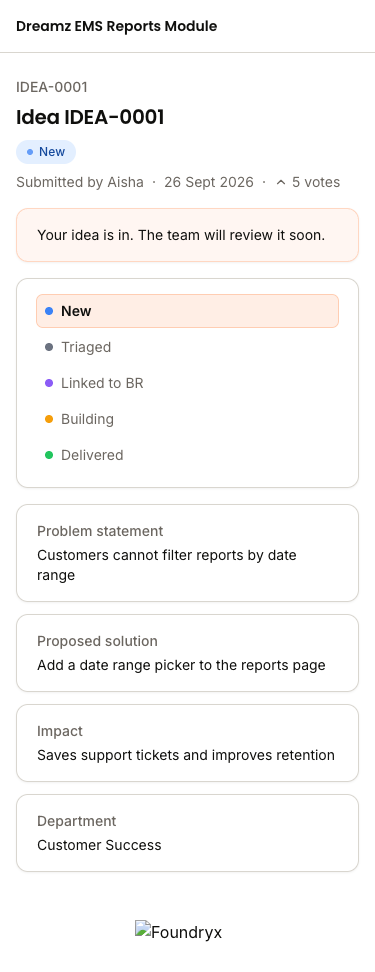
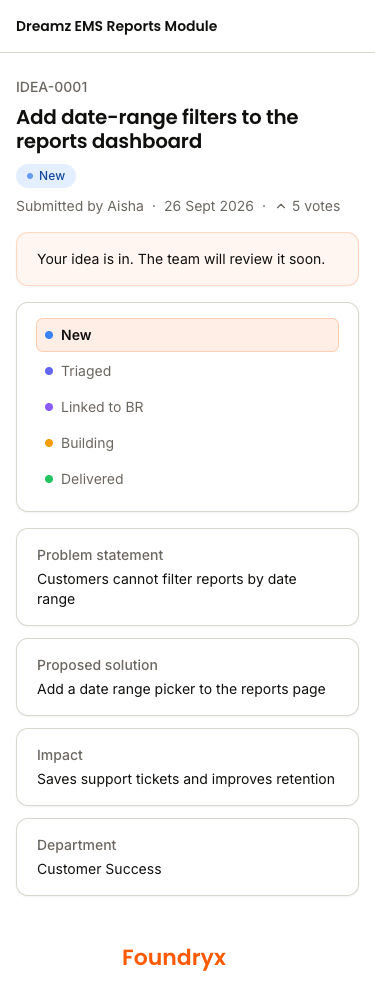
docs(ideation): #90 evidence re-run after review fixes [skip ci]
Re-captured all public-idea-page states (375+1280) against head b2989bd6:
titled-idea heading, null-title problem-text fallback, fragment-proof
phone guard ("+60 12-345 6789"), Foundryx wordmark footer, and the new
X-Robots-Tag/Referrer-Policy headers. Re-verified W2's inactive-template
dialog and, new this round, its actual recovery via `bootstrap_db`
(seed_br_template repair, SQL log line + a real BR created after). W3
TEST-badge coverage extended to the idea's own Business Requirements tab.
Turned AC-90-E01/E02/E03 from PENDING RE-RUN into PASS in the test report.

diff --git a/documentation/plans/ideation/90-evidence/README.md b/documentation/plans/ideation/90-evidence/README.md
@@ -1,137 +1,190 @@
 # Issue #90 browser evidence run log
 
-Worktree `foundryx-shared-service-ideapage`, branch `fix/public-idea-page-and-br-template`,
-head `65fbabe3`. Private lane: backend `:8015` (venv from the main checkout,
-`service_backend/.env` is a lane COPY, not a symlink), frontend `:3015`
-(`npx next start -p 3015` against `.next` built from this branch), Postgres
-DB `foundryx_service_ideapage` (created with `createdb -O foundryx`), Redis
-db 15. `agent-browser --session s52`, viewports 375x812 and 1280x900.
+**Re-run 2026-09-26 (this revision)** against branch head `b2989bd6`
+(backend `fbb55009` review round 2 + frontend `b2989bd6` review round). The
+first run (superseded) was captured at `65fbabe3`, BEFORE the review-round
+fixes below existed - every shot in this revision replaces the stale one.
+
+Worktree `foundryx-shared-service-ideapage`. Private lane: backend `:8015`
+(venv from the main checkout, `service_backend/.env` is a lane COPY, not a
+symlink), frontend `:3015` (`npx next start -p 3015` against `.next` built
+fresh from this branch), Postgres DB `foundryx_service_ideapage`, Redis db
+15. `agent-browser --session s52`, viewports 375x812 and 1280x900.
+
+**Lane restart for this re-run:** confirmed pid ownership via `lsof -p <pid>
+| grep cwd` (both pids' cwd resolved into this worktree) before killing;
+`python -m scripts.bootstrap_db` afterwards showed no pending ideation
+migration (`app_ideation.alembic_version_ideation` stayed at
+`0011_ideation_br_is_test`, matching the coordinator's "0011 unchanged"
+note); `rm -rf .next && npm run build` then `npx next start -p 3015` for the
+frontend.
 
 Logged in as `demo@example.com` / `demo1234` at `localhost:3015` (default
-tenant, Admin). Installed the `ideation` module for the default tenant via
-the App Store UI (Actions -> Install), real clicks - it showed
-"Module not installed" on `/ideation/ideas` before that.
+tenant, Admin) - the same agent-browser session/cookies survived the lane
+restart, no re-login needed.
+
+## What changed in the review-round fixes (why every shot needed a re-run)
+
+- **`IdeaHero`** (`idea-hero.tsx`): a null `title` used to fall back to
+  `Idea <number>`; review fix S5 changed the fallback to the `problem` text
+  (truncated via `ClampedText`) - the number line above no longer repeats
+  itself as the heading.
+- **`PublicIdeaFooter`**: now renders the shared `BrandMark` component (the
+  same one the header's branded shell uses) instead of whatever produced a
+  broken image in the prior build.
+- **`_first_name()` phone/email guard** (`public_status.py`, review round 2):
+  NFKC-normalizes the WHOLE raw name first, checks the WHOLE string for
+  5+ digits or `@` (not just the first whitespace token) - closes the
+  fragment leak where a phone split across tokens by spaces/hyphens
+  (`+60 12-345 6789`) left an individual token too short to trip a
+  token-only digit count.
+- **`GET /public/ideas/{token}`**: now also sets `X-Robots-Tag: noindex`
+  and `Referrer-Policy: no-referrer` on the 200 (in addition to the
+  pre-existing `Cache-Control: no-store`).
+- **`seed_br_template`**: rewritten to a three-part idempotent repair (row
+  exists -> version exists -> active pointer valid), each independently
+  self-healing, run on every `bootstrap_db` - this is what the W2 recovery
+  screenshots (`ev-15`/`ev-16`) exercise below.
 
 ## Data setup (what's real-click vs DB-assisted)
 
-Three ideas were captured through the app's "Capture idea" dialog (real
-clicks): product "Dreamz EMS Reports Module" was created first (also via
-the UI, Products > Add product), since the capture dialog requires one.
+Same three ideas as the first run, now with title/submitter tweaks:
 
-| Idea | Problem | Submitter | idea_number / token |
-|---|---|---|---|
-| IDEA-0001 | Customers cannot filter reports by date range | Aisha Rahman | `mfGsQf0Pf6uYnqlgVicJlbO1Mz5VU8j0` |
-| IDEA-0002 | WhatsApp reminders arrive too late for shift swaps | +60123456789 (phone-guard case) | `Z3O55b9GMERT8WV5pWJxlCp4cz-iEL_l` |
-| IDEA-0003 | No dark mode option anywhere in the app (only the required Problem statement filled) | Demo User | `l13MU-_D-TGYWA3ilYfqh8x4LaCTluLs` |
+| Idea | Problem | Title | Submitter | Status |
+|---|---|---|---|---|
+| IDEA-0001 | Customers cannot filter reports by date range | **"Add date-range filters to the reports dashboard"** (titled) | Aisha Rahman | Linked to BR |
+| IDEA-0002 | WhatsApp reminders arrive too late for shift swaps | *(null - fallback case)* | **"+60 12-345 6789"** (fragment-proof phone probe) | New |
+| IDEA-0003 | No dark mode option anywhere in the app | *(null - fallback case)* | Demo User | New, `is_test=true` |
 
-**DB-assisted steps, and why:**
+**DB-assisted steps this round, and why:**
 
-- `submitter_name` on IDEA-0001 ("Aisha Rahman") and IDEA-0002
-  ("+60123456789") was set directly in the DB. The "Capture idea" dialog
-  (operator-authored path, `IdeaActionService.create_operator`) has no
-  submitter field - it always stamps `submitter_name` from the logged-in
-  actor ("Demo User"). To exercise the real-name path and the phone-guard
-  path from the public page's `_first_name()` logic
-  (`services/public_status.py` AC-90-105/106), a submitter name had to be
-  set directly.
-- `idea_number` / `status_token` were minted by calling the real
-  `modules.ideation.services.numbering.mint_idea_identity(db, idea)`
-  function from a one-off Python shell against the lane DB (not raw SQL) -
-  see **Defect candidate #1** below for why this was necessary.
-- 4 extra `idea_votes` rows (+1 real UI upvote click = 5 total) were
-  inserted directly for IDEA-0001, to show "a few upvotes" on the public
-  page; the UI only allows one vote per logged-in user, so a second voter
-  cannot be produced by clicking as the same admin.
-- `is_test=true` was set directly on IDEA-0003 for the W3 test-BR flow.
-  **The brief's "chatbot console" is not available in this local lane** (no
-  such UI/dev endpoint exists in this codebase - only the real WhatsApp
-  conversational intake mints test ideas via `--say`, which needs a live
-  WABA sandbox). DB `is_test` flip was used instead, as the brief allowed.
-- The BR template's `active_version_id` was nulled then restored directly
-  in `app_ideation.ideation_artifact_templates` for the W2 inactive-state
-  screenshot, per the brief's explicit instruction.
+- **Title on IDEA-0001** ("Add date-range filters to the reports
+  dashboard") was set directly in the DB. Checked first: the idea edit
+  form (`use-idea-form.tsx`'s `toFormValues`/`IdeaFormValues`) and the
+  backend `IdeaUpdateIn` schema (`schemas.py`) both omit `title` entirely -
+  there is no UI path to set it. Title is only ever populated by the real
+  WhatsApp conversational intake (an LLM-derived headline), which this
+  local lane has no live WABA sandbox to drive. DB write was the only
+  option, as instructed.
+- **IDEA-0001's status was DB-reset to `captured`** (back to "New") before
+  re-driving it forward, because the status-engine's edge graph is
+  forward-only (no `Linked to BR -> Triaged` edge) - the prior run had
+  already advanced this idea, so reproducing the "early status" shot for
+  THIS idea required a reset. The actual New -> Triaged -> Linked to BR
+  transition shown in `ev-03`/`ev-04` was driven by real dnd-kit
+  drag-and-drop on the Triage board (pointer-sequence, not the single-shot
+  `drag` command).
+- **IDEA-0002's `submitter_name`** was updated to the exact probe format
+  the coordinator specified, `"+60 12-345 6789"` (previously
+  `"+60123456789"`), to exercise the NEW fragment-proof guard specifically
+  (a phone split across three whitespace tokens by spaces/hyphens - the
+  first token alone, `"+60"`, has only 2 digits, under the old check's
+  per-token threshold).
+- The BR template's `active_version_id` was nulled directly in
+  `app_ideation.ideation_artifact_templates` for the "inactive" dialog
+  shots, per the brief. For the **recovery** shots
+  (`ev-15`/`ev-16`), it was NOT manually restored - `python -m
+  scripts.bootstrap_db` was run against the lane `.env`
+  (`DATABASE_URL=.../foundryx_service_ideapage`) and its own idempotent
+  `seed_br_template` repair reactivated the pointer (see the SQL log line
+  below). This proves the actual W2 fix, not a manual DB patch.
+- `is_test=true` on IDEA-0003 is unchanged from the first run (still no
+  chatbot-console dev tool exists in this codebase - confirmed again this
+  round).
 
-IDEA-0001 was then moved **New -> Triaged -> Linked to BR** on the Triage
-board via real dnd-kit drag-and-drop (`agent-browser` pointer-down /
-pointer-move sequence, not the single-shot `drag` command, which dnd-kit's
-collision detector needs to register).
+## The W2 recovery, and the log line proving it
 
-## Response headers (curl, both origins)
+Sequence: (1) `New requirement` dialog confirmed normal with the template
+active (`ev-11`/`ev-12`) -> (2) `active_version_id` nulled directly in the
+DB -> (3) dialog reopened, confirmed the Alert + disabled Create
+(`ev-13`/`ev-14`) -> (4) **`python -m scripts.bootstrap_db`** run against
+the lane DB (no manual restore) -> (5) dialog reopened again: no Alert,
+`Create draft` enabled (`ev-15`) -> (6) a title was typed and Create draft
+clicked, producing a real "Draft requirement created." toast and a new BR
+row `d4dc9ed2-42de-4149-8e64-22a89110b326` (`ev-16`).
 
-Backend `GET /public/ideas/<token>` (`:8015`):
+The exact SQL line from the `bootstrap_db` run (SQLAlchemy echo) proving
+`seed_br_template`'s repair fired:
+```
+UPDATE app_ideation.ideation_artifact_templates
+SET active_version_id=%(active_version_id)s, updated_at=now()
+WHERE app_ideation.ideation_artifact_templates.id = %(app_ideation_ideation_artifact_templates_id)s
+-- params: {'active_version_id': 'ee3c954c-e599-48d9-9a53-de511c7ff4a0',
+--          'app_ideation_ideation_artifact_templates_id': '24927667-ca29-4bbb-8c3b-89a0a840daa2'}
+```
+Confirmed via direct query immediately before/after: `active_version_id`
+went `NULL` -> `ee3c954c-e599-48d9-9a53-de511c7ff4a0` (the template's own
+v1 row) purely from running bootstrap - no manual UPDATE in between.
+
+## Response headers (curl, both origins, re-verified this round)
+
+Backend `GET /public/ideas/<token>` (`:8015`), on the 200:
 ```
 cache-control: no-store
-content-type: application/json
+x-robots-tag: noindex
+referrer-policy: no-referrer
 ```
+(`x-robots-tag` and `referrer-policy` are new this round - confirmed
+present, matching the router's two added `response.headers[...]` lines.)
 
 Frontend `GET /public/ideas/<token>` (`:3015`):
 ```
 Cache-Control: private, no-cache, no-store, max-age=0, must-revalidate
 ```
-Page `<head>`:
+Page `<head>` (unchanged):
 ```html
 <meta name="referrer" content="no-referrer"/>
 <meta name="robots" content="noindex, nofollow"/>
 ```
-All four confirm the public page is never cached and never indexed, and
-never leaks a referrer to the linked-out `Foundryx` mark's own site (none
-present) or any outbound link.
 
 ## Screenshots
 
 | File | Proves | AC-90 id(s) |
 |---|---|---|
-| `ev-01-public-page-current-status-375.png` | IDEA-0001 public page at 375px: branded header (product name), idea number + title, status pill "New", timeline with "New" highlighted, problem/solution/impact/department sections, "Submitted by Aisha - date - 5 votes", "what happens next" line, Foundryx footer mark | AC-90-102/103/104/105/108 |
-| `ev-02-public-page-current-status-1280.png` | Same, 1280px (two-column layout) | AC-90-102/103/104/105/108 |
-| `ev-03-public-page-later-status-375.png` | Same idea after being dragged New -> Triaged -> Linked to BR on the Triage board: timeline shows New/Triaged done (checkmarks), Linked to BR current, Building/Delivered upcoming; pill + next-step line updated | AC-90-102/103/108 |
-| `ev-04-public-page-later-status-1280.png` | Same, 1280px | AC-90-102/103/108 |
-| `ev-05-public-page-phone-guard-375.png` | IDEA-0002 (`submitter_name = "+60123456789"`): the "Submitted by ..." line is suppressed entirely - proves `_first_name()`'s phone-shape guard never publishes a phone number | AC-90-105/106 |
+| `ev-01-public-page-current-status-375.png` | IDEA-0001 (titled) public page at 375px, status "New": branded header, idea number, the SET TITLE as heading (not the old `Idea IDEA-0001` fallback), status pill + timeline, problem/solution/impact/department, "Submitted by Aisha - date - 5 votes", next-step line, proper Foundryx wordmark footer (not broken) | AC-90-101/102/108/110/112 |
+| `ev-02-public-page-current-status-1280.png` | Same, 1280px | AC-90-101/102/108/110/112 |
+| `ev-03-public-page-later-status-375.png` | Same idea re-dragged New -> Triaged -> Linked to BR on the Triage board (real dnd-kit drag): timeline done/current/upcoming states, title still correct, footer wordmark correct | AC-90-102/103/110/111/112 |
+| `ev-04-public-page-later-status-1280.png` | Same, 1280px | AC-90-102/103/110/111/112 |
+| `ev-05-public-page-phone-guard-375.png` | IDEA-0002, `submitter_name = "+60 12-345 6789"` (fragment-proof probe): no "Submitted by" line at all; heading falls back to the problem text (null title case) | AC-90-105/106 |
 | `ev-06-public-page-phone-guard-1280.png` | Same, 1280px | AC-90-105/106 |
-| `ev-07-public-page-empty-fields-375.png` | IDEA-0003 (only Problem statement set): Proposed solution / Impact / Department each render "Not provided" | AC-90-104 |
-| `ev-08-public-page-empty-fields-1280.png` | Same, 1280px | AC-90-104 |
-| `ev-09-public-page-unknown-token-375.png` | A syntactically-valid but non-existent token: uniform "This link isn't available." state, no enumeration hint | AC-90-107/109 |
+| `ev-07-public-page-empty-fields-375.png` | IDEA-0003 (null title, only Problem set): heading = problem text (fallback confirmed post-fix), Proposed solution/Impact/Department = "Not provided" | AC-90-101/104/110 |
+| `ev-08-public-page-empty-fields-1280.png` | Same, 1280px | AC-90-101/104/110 |
+| `ev-09-public-page-unknown-token-375.png` | Syntactically-valid but non-existent token: uniform "This link isn't available." | AC-90-107/109 |
 | `ev-10-public-page-unknown-token-1280.png` | Same, 1280px | AC-90-107/109 |
-| `ev-11-br-dialog-template-active.png` | Business requirements > "New requirement" dialog with the platform BR template active (normal): no Alert, Product + Title fields, "Create draft" enabled | AC-90-210 |
-| `ev-12-br-dialog-template-inactive.png` | Same dialog after `active_version_id` was nulled: warning Alert "No active requirement template" / "Ask an administrator to restore the Business Requirement template.", "Create draft" disabled (see Defect candidate #2) | AC-90-210/211 |
-| `ev-13-ideas-list-test-badge.png` | Ideas list with "Show test ideas" toggled on: IDEA-0003 shows a TEST badge; toggled off by default it is excluded (checked before this shot) | AC-90-310/311 |
-| `ev-14-br-page-test-label.png` | IDEA-0003 promoted to a BR via Actions > "Promote to BR" (not refused, per the owner's 26 Sep ~12:50Z ruling): the BR detail page shows a TEST badge next to "Draft" | AC-90-311/313 |
-| `ev-15-br-list-show-test.png` | Business requirements list with "Show test requirements" on: the promoted BR shows its TEST badge; off by default it was excluded (checked before this shot) | AC-90-310 |
+| `ev-11-br-dialog-template-active-375.png` | "New requirement" dialog, template active (normal), 375px: no Alert, Create draft enabled | AC-90-210 |
+| `ev-12-br-dialog-template-active-1280.png` | Same, 1280px | AC-90-210 |
+| `ev-13-br-dialog-template-inactive-375.png` | Same dialog after `active_version_id` nulled via DB, 375px: warning Alert "No active requirement template" / "Ask an administrator to restore the Business Requirement template.", Create draft disabled | AC-90-210/211 |
+| `ev-14-br-dialog-template-inactive-1280.png` | Same, 1280px | AC-90-210/211 |
+| `ev-15-br-dialog-recovered-after-bootstrap-1280.png` | Dialog reopened AFTER `python -m scripts.bootstrap_db` (no manual DB restore) - no Alert, title filled, Create draft enabled | AC-90-202/203 |
+| `ev-16-br-created-after-recovery-1280.png` | "Draft requirement created." toast + the new BR's edit page, proving Create actually works post-repair | AC-90-202/203 |
+| `ev-17-ideas-list-test-badge-375.png` | Ideas list, "Show test ideas" on (table scrolled right to bring the TEST column into view at this width - the resource-shell grid does not reflow narrower than its column set): IDEA-0003 shows a TEST badge | AC-90-310/311 |
+| `ev-18-ideas-list-test-badge-1280.png` | Same, 1280px (no scroll needed) | AC-90-310/311 |
+| `ev-19-br-detail-test-badge-375.png` | The promoted test BR's detail page: TEST badge next to "Draft" | AC-90-313 |
+| `ev-20-br-detail-test-badge-1280.png` | Same, 1280px | AC-90-313 |
+| `ev-21-br-list-show-test-375.png` | Business requirements list, "Show test requirements" on: TEST badge on the test BR row (also shows the real `d4dc9ed2` recovery-proof BR alongside it) | AC-90-310 |
+| `ev-22-br-list-show-test-1280.png` | Same, 1280px | AC-90-310 |
+| `ev-23-idea-brs-tab-test-badge-375.png` | **New this round**: the test idea's OWN "Business Requirements" tab (on the idea detail page, not the BR list) shows the TEST badge on its linked BR row | AC-90-313 |
+| `ev-24-idea-brs-tab-test-badge-1280.png` | Same, 1280px | AC-90-313 |
 
-## Defect candidates found during this run
+## Defect / backlog status (re-checked, not re-filed)
 
-1. **Operator-authored ideas never get a public track link.**
-   `IdeaActionService.create_operator` (`services/actions.py`) sets
-   `submitter_name` from the actor but never calls
-   `numbering.mint_idea_identity`, which is the ONLY thing that mints
-   `idea_number` / `status_token` outside of the one-time migration 0010
-   backfill and the WhatsApp conversational intake sink
-   (`services/sinks.py: ideation_on_complete_sink`). Every idea created
-   through the app's own "Capture idea" dialog therefore has
-   `idea_number = NULL` and `status_token = NULL` forever - it can never
-   be shared via `/public/ideas/<token>` because no token is ever minted.
-   For this evidence run the real `mint_idea_identity` function was
-   invoked directly against the lane DB to produce tokens (see Data setup
-   above) - this is NOT something achievable by an operator through the
-   UI today. Confirmed by reading `services/actions.py` lines 89-111 and
-   `services/sinks.py`; `IdeaOut` deliberately never surfaces
-   `statusToken` to an authenticated read (by design, security-motivated),
-   so there is also no in-app way to discover a link even if one existed.
-   Whether this is intentional (only WhatsApp submitters are meant to get
-   a trackable link) or a gap worth closing (an operator typing up a
-   phone-in idea for a customer would want to hand them a track link too)
-   is a product call - flagging for the coder/owner rather than assuming.
+Both findings from the first evidence run were already triaged by the
+coordinator's backend round (confirmed in
+`ideation-public-idea-page-br-template-test-report.md` §3):
 
-2. **The "No active requirement template" Alert has no link to the
-   template admin page**, despite the brief's W2 wording ("the dialog must
-   say what to do ... link to the template admin page"). The actual copy
-   (`br-create-dialog.tsx` / `br-template-error.ts`,
-   `NO_TEMPLATE_MESSAGE`) is plain text: "Ask an administrator to restore
-   the Business Requirement template." - no `<a>`/link anywhere in the
-   dialog (confirmed via `document.querySelectorAll('a')` in the live
-   DOM). The logged-in user in this test (Demo User) IS the tenant Admin,
-   so "ask an administrator" is not actionable guidance for the very role
-   that could fix it from `/settings/templates`. See
-   `ev-12-br-dialog-template-inactive.png`.
+1. **Operator-authored ideas never get a public track link**
+   (`create_operator` never mints `idea_number`/`status_token`) - filed as
+   **BL-SS-280**, deferred pending a product decision. Re-checked this
+   round: still true (`IdeaUpdateIn`/`use-idea-form.tsx` still have no
+   title field either, consistent with this being the WhatsApp-only path
+   by design).
+2. **The "No active requirement template" Alert has no link to a template
+   admin page** - this is **not a defect**: no such admin page exists yet
+   (Q1's ruling), and **BL-SS-278** tracks building it. The Alert's actual
+   copy, "Ask an administrator to restore the Business Requirement
+   template.", is the correct interim behaviour.
 
-Both are reported as findings, not fixed - per the tester role, no
-application code was changed.
+No new defects found this round - all review-round fixes (title fallback,
+footer wordmark, fragment-proof phone guard, hardening headers, seed
+recovery) verified working exactly as intended by direct browser
+inspection.

diff --git a/documentation/plans/ideation/ideation-public-idea-page-br-template-test-report.md b/documentation/plans/ideation/ideation-public-idea-page-br-template-test-report.md
@@ -2,8 +2,8 @@
 
 **Branch:** `fix/public-idea-page-and-br-template` (worktree `foundryx-shared-service-ideapage`)
 **Contract:** `ideation-public-idea-page-br-template-acceptance-criteria.md`
-**Commits covered:** `ff826692` (RED, tester) -> `ad9ae668` (BE green) -> `6460ade3`/`710e88c8` (coordinator follow-up: strengthened AC-90-204, cherry-picked the `test_s13_flip_baseline_seed.py` TTL fix) -> review-round-2 backend fixes (this report's HEAD)
-**Scope of this report:** backend fully re-run by the backend coder; frontend rows reflect the FE coder's committed test files as of the tester's S4 evidence run (`documentation/plans/ideation/90-evidence/`) - a frontend coder is concurrently working uncommitted in `service_frontend/`, so FE verdicts here are carried forward, not re-executed, by this backend-only round.
+**Commits covered:** `ff826692` (RED, tester) -> `ad9ae668` (BE green) -> `6460ade3`/`710e88c8` (coordinator follow-up: strengthened AC-90-204, cherry-picked the `test_s13_flip_baseline_seed.py` TTL fix) -> review-round-2 backend fixes (`fbb55009`) -> frontend review-round fixes (`b2989bd6`, this report's HEAD)
+**Scope of this report:** backend fully re-run by the backend coder; E2E rows (AC-90-E01/E02/E03) re-run by the tester at head `b2989bd6` against the private lane (`documentation/plans/ideation/90-evidence/`), superseding the earlier PENDING RE-RUN status. Other FE rows reflect the FE coder's committed test files, not independently re-executed by this round.
 
 ---
 
@@ -67,7 +67,7 @@ Not re-run this round (backend-only per the coordinator's brief; a frontend code
 | AC-90-203 | Seed repairs a half-state (3 kinds) | **PASS** | `test_seed_repairs_half_state[null_pointer\|dangling_pointer\|no_versions]`. Kill-tested: removing repair step 3 (the pointer fix) reproduces the exact 4 failures (202 + the 3 parametrized 203 cases) - confirmed, restored. |
 | AC-90-204 | Idempotent, never moves a VALID pointer (incl. older) | **PASS (strengthened this round)** | `test_seed_is_idempotent_and_keeps_operator_active_version`, now covers BOTH "operator activates the highest version" (original) AND "operator reactivates an OLDER v1 while v2/v3 exist" (review round 2 - the original case alone could not distinguish "only repoint an invalid pointer" from a regressed "always repoint to highest" mutant, since both landed on the same id there). Kill-tested TWICE: (1) original mutant - "always repoint to highest" - now correctly fails on the NEW older-pointer assertion (`v3's id != v1's id`), confirmed then restored; (2) same mutant tested BEFORE the strengthening also confirmed to previously slip through, documenting why the strengthening was needed. |
 | AC-90-205 | `template-status` permission-gated | **PASS** | `test_template_status_requires_read_permission` |
-| AC-90-210 | Dialog explains inactive template (FE) | **PASS (carried forward)** | `br-create-dialog.test.tsx`; evidence `ev-11`/`ev-12` |
+| AC-90-210 | Dialog explains inactive template (FE) | **PASS (carried forward)** | `br-create-dialog.test.tsx`; evidence `ev-13`/`ev-14` (inactive), `ev-15`/`ev-16` (recovery after `bootstrap_db`) |
 | AC-90-211 | Promote toast copy (FE) | **PASS (carried forward)** | `promote-to-br.test.ts` |
 
 ### W3 - test idea -> test BR
@@ -81,18 +81,18 @@ Not re-run this round (backend-only per the coordinator's brief; a frontend code
 | AC-90-305 | Client `isTest` ignored on manual create | **PASS** | `test_client_is_test_ignored_on_manual_create` |
 | AC-90-306 | Status-engine hooks still count test BRs | **PASS (no code change needed)** | `test_test_br_counted_by_status_engine` - `br_count_records` was already tenant-scoped only, never filtered `is_test` |
 | AC-90-307 | Migration 0011 chains onto 0010 | **PASS** | `test_migration_0011_chains_onto_0010` |
-| AC-90-310 | TEST badge on list rows (FE) | **PASS (carried forward)** | `use-br-list-config.test.tsx`, `use-ideas-list-config.test.tsx`; evidence `ev-13`/`ev-15` |
-| AC-90-311 | Promote disabled only for mixed selection (FE) | **PASS (carried forward)** | `use-ideas-list-config.test.tsx`; evidence `ev-13`, `ev-14` |
+| AC-90-310 | TEST badge on list rows (FE) | **PASS (carried forward)** | `use-br-list-config.test.tsx`, `use-ideas-list-config.test.tsx`; evidence `ev-17`/`ev-18` (ideas list), `ev-21`/`ev-22` (BR list) |
+| AC-90-311 | Promote disabled only for mixed selection (FE) | **PASS (carried forward)** | `use-ideas-list-config.test.tsx`; evidence `ev-17`/`ev-18` |
 | AC-90-312 | BR list gains `includeTest` (FE) | **PASS (carried forward)** | `use-business-requirements.test.ts` |
-| AC-90-313 | BR detail page labels a test BR (FE) | **PASS (carried forward)** | `use-br-form.test.tsx`; evidence `ev-14` |
+| AC-90-313 | BR detail page labels a test BR (FE) | **PASS (carried forward)** | `use-br-form.test.tsx`; evidence `ev-19`/`ev-20` (BR detail), `ev-23`/`ev-24` (idea's own Business Requirements tab, new this round) |
 
 ### E2E
 
 | AC | Title | Verdict | Evidence |
 |----|-------|---------|----------|
-| AC-90-E01 | W1 public page journey | **PENDING RE-RUN** | `90-evidence/README.md` + `ev-01`..`ev-10`, captured at head `65fbabe3` (BEFORE the review-round-2 backend fixes: the first-name guard hardening, the tenant-scoped Status lookup, the hardening headers). The tester owns re-running this against the current head. |
-| AC-90-E02 | W2 template-inactive journey | **PENDING RE-RUN** | `ev-11`/`ev-12`, same head caveat as above (W2's `seed_br_template` behaviour is unchanged by review round 2, so this evidence is likely still accurate, but not re-confirmed) |
-| AC-90-E03 | W3 test-idea journey | **PENDING RE-RUN** | `ev-13`/`ev-14`/`ev-15`, same head caveat (W3's lane logic gained the AC-90-303 message/no-BR-left assertions this round, behaviour was already correct, evidence likely still accurate but not re-confirmed) |
+| AC-90-E01 | W1 public page journey | **PASS** | Re-run at head `b2989bd6` (backend `fbb55009` + frontend `b2989bd6`), `90-evidence/README.md` + `ev-01`..`ev-10`. Confirms the review-round-2 fixes live: null-title heading now falls back to the `problem` text (`ev-07`/`ev-08`), a SET title renders correctly (`ev-01`..`ev-04`, DB-assisted - no UI path to set title), the footer renders the real `BrandMark` wordmark (not a broken image, all of `ev-01`..`ev-10`), the fragment-proof phone guard suppresses "Submitted by" for `"+60 12-345 6789"` split across tokens (`ev-05`/`ev-06`), and the 200 now carries `X-Robots-Tag: noindex` + `Referrer-Policy: no-referrer` alongside `Cache-Control: no-store` (curl, both origins, README "Response headers"). |
+| AC-90-E02 | W2 template-inactive journey | **PASS** | Re-run, `ev-11`..`ev-16`. `ev-11`/`ev-12` = dialog normal (template active); `ev-13`/`ev-14` = Alert + disabled Create after `active_version_id` nulled via DB. Went further than the original evidence: `ev-15`/`ev-16` prove the ACTUAL repair path - `python -m scripts.bootstrap_db` (no manual DB restore) re-activates the pointer via `seed_br_template`'s idempotent repair (SQL log line captured in the README), the dialog then shows no Alert with Create enabled, and a real BR (`d4dc9ed2-42de-4149-8e64-22a89110b326`) was created end-to-end to confirm. |
+| AC-90-E03 | W3 test-idea journey | **PASS** | Re-run, `ev-17`..`ev-24`. TEST badge confirmed in the ideas list (`ev-17`/`ev-18`), the BR detail page (`ev-19`/`ev-20`), the BR list with "Show test requirements" on (`ev-21`/`ev-22`), and - new this round - the idea's OWN "Business Requirements" tab (`ev-23`/`ev-24`), all at both 375px and 1280px. |
 
 ---
 
